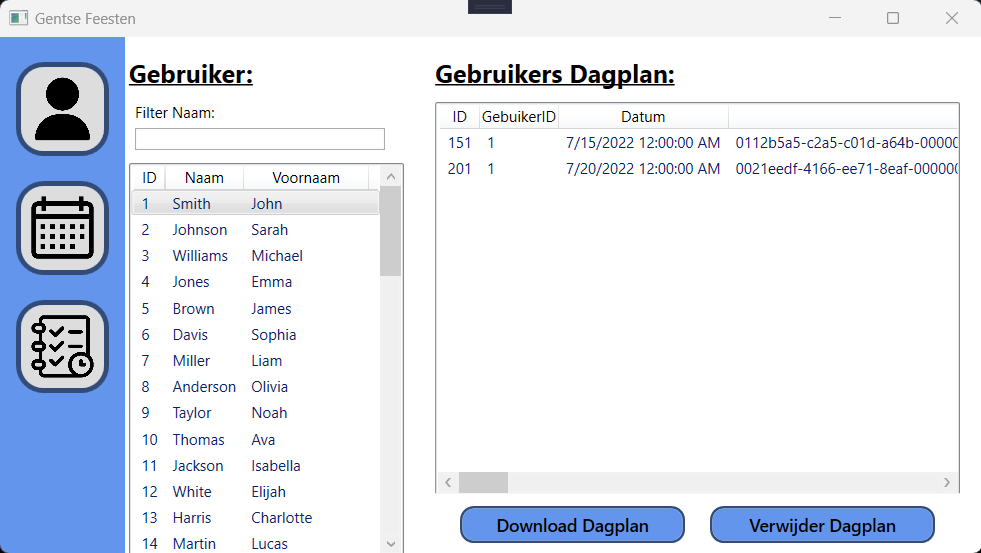
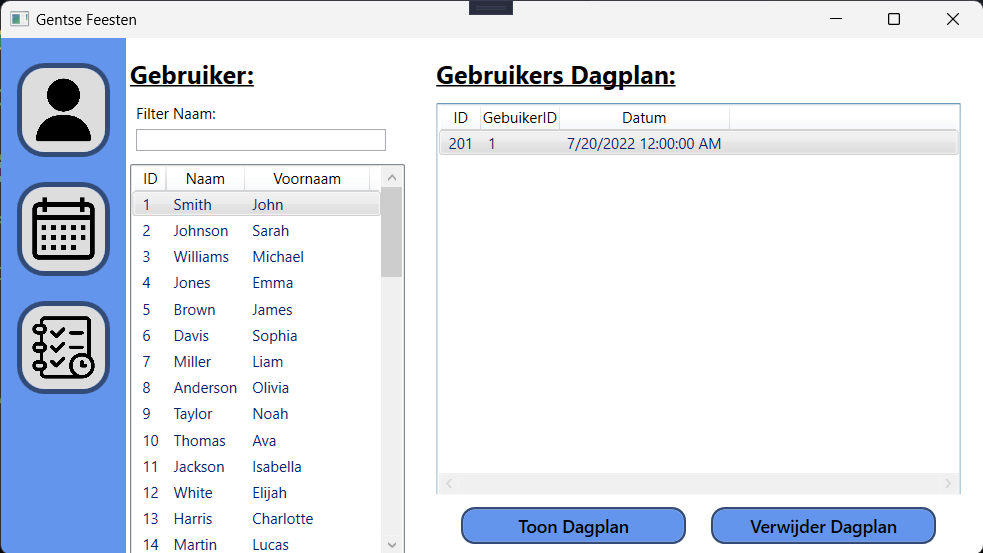
README File Eindopdracht

diff --git a/README.md b/README.md
@@ -22,7 +22,11 @@ Dit is een applicatie gemaakt voor de VIP's van de Gentse Feesten
 ![Evenement](./Images/Evenement.png)
 
 ## Gebruikers Dagplan scherm
-### Hier kan de gebruiker al zijn dagplannen zien die hij/zij heeft gemaakt en hij/zij kan de dagplannen verwijderen of downloaden naar een externe folder op de Desktop van de Gebruiker.
+### Hier kan de gebruiker al zijn dagplannen zien die hij/zij heeft gemaakt en hij/zij kan de dagplannen verwijderen of kan een specifiek Dagplan tonen op een nieuw scherm waar hij/zij de evenementen van dat dagplan kunnen zien
 ![Evenement](./Images/Gebruiker_Dagplan.png)
+
+## Specifiek Dagplan Van een Gebruiker
+### Hier kan de gebruiker een specifiek dagplan zien met alle evenementen die op dat dagplan staan. Hij/zij kan dan een of meerdere evenementen verwijderen of ook exrta evenementen toevoegen en de gebruiker kan het dagplan ook download op zijn Desktop. Er is ook een refresh knop om de lijst met evenementen te refreshen nadat er evenementen zij toegevoegd.
+![Evenement](./Images/Dagplan_Van_Gebruiker.png)
 
 > Dit is gemaakt door Jelle Vandriessche
